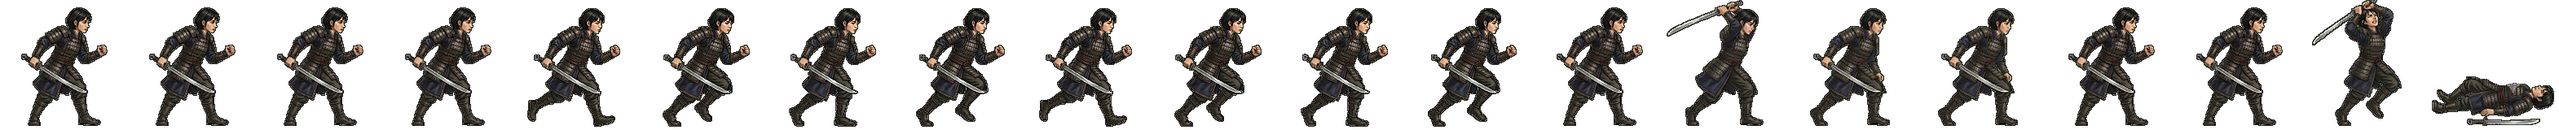
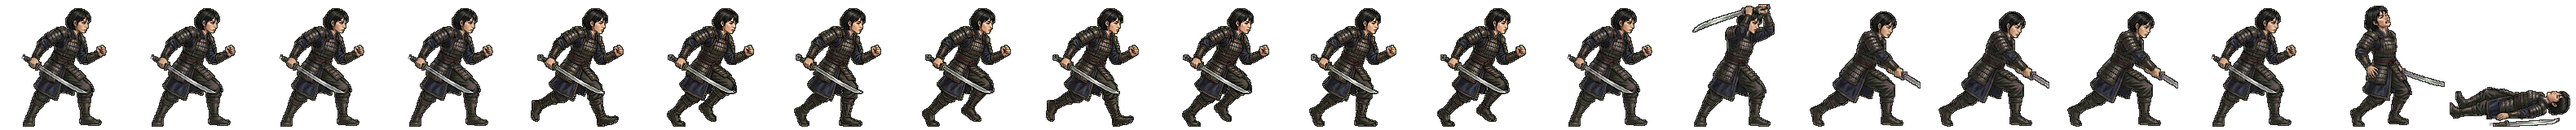
전투 띠 새로: ara 동작 띠 다시 — 형이 구움 (굽기 꾸러미 · 검수 1·3번) (형 11-08)
Claude-Session: https://claude.ai/code/session_01TRiuNAG8xSjdmjCFpc8Rd5

diff --git a/src/realm/data/art.ts b/src/realm/data/art.ts
@@ -493,7 +493,7 @@ export const GEN_ANIM: Readonly<Partial<Record<string, { ar: number; body: numbe
   malgalgi: { ar: 165 / 160, body: 0.906 }, // 11-08 초상대로 다시 (형: 「투구 쓰고 원본과 다르다」 · 제미나이 걷기 4×2 + 동작 4×2 → 20컷 · assets_src/realm/gemini/generals2) · 전투 옷은 더 드러나게 (형 11-08)
   haebi: { ar: 157 / 160, body: 0.900 }, // 11-08 초상대로 다시 (형: 「투구 쓰고 원본과 다르다」 · 제미나이 걷기 4×2 + 동작 4×2 → 20컷 · assets_src/realm/gemini/generals2) · 11-08 처음 · haebi 동작 띠 다시 — 형이 구움 (굽기 꾸러미 · 검수 1·3번)
   soebi: { ar: 156 / 160, body: 0.906 }, // 11-08 초상대로 다시 (형: 「투구 쓰고 원본과 다르다」 · 제미나이 걷기 4×2 + 동작 4×2 → 20컷 · assets_src/realm/gemini/generals2) · 쇠 덩이 묶음 대신 큰 쇠망치
-  ara: { ar: 157 / 160, body: 0.906 }, // 11-08 초상대로 다시 (형: 「투구 쓰고 원본과 다르다」 · 제미나이 걷기 4×2 + 동작 4×2 → 20컷 · assets_src/realm/gemini/generals2)
+  ara: { ar: 158 / 160, body: 0.906 }, // 11-08 초상대로 다시 (형: 「투구 쓰고 원본과 다르다」 · 제미나이 걷기 4×2 + 동작 4×2 → 20컷 · assets_src/realm/gemini/generals2) · 11-08 처음 · ara 동작 띠 다시 — 형이 구움 (굽기 꾸러미 · 검수 1·3번)
   heo: { ar: 145 / 160, body: 0.900 }, // 11-08 초상대로 다시 (형: 「투구 쓰고 원본과 다르다」 · 제미나이 걷기 4×2 + 동작 4×2 → 20컷 · assets_src/realm/gemini/generals2) · 갑옷 대신 보석 윗옷·트임 치마 (형: 전투 옷은 더 드러나게)
   gamsil: { ar: 157 / 160, body: 0.906 }, // 11-08 초상대로 다시 (형: 「투구 쓰고 원본과 다르다」 · 제미나이 걷기 4×2 + 동작 4×2 → 20컷 · assets_src/realm/gemini/generals2) · 어깨 내린 주황 겉옷·짧은 치마 (형: 전투 옷은 더 드러나게)
   irang: { ar: 164 / 160, body: 0.900 }, // 11-08 초상대로 다시 (형: 「투구 쓰고 원본과 다르다」 · 제미나이 걷기 4×2 + 동작 4×2 → 20컷 · assets_src/realm/gemini/generals2) · 11-08 처음 · 문신 팔·구슬 목걸이·가죽 조끼 · 청동 단검 찌르기

diff --git a/src/ui/realm/battle-strikes.ts b/src/ui/realm/battle-strikes.ts
@@ -138,7 +138,7 @@ const CONTACT: Readonly<Record<string, [number, number, number]>> = {
   axe: [15, .89, .47], horse: [16, .98, .23], boat: [16, .88, .57],
   marine: [15, .99, .40], militia: [14, .98, .33],
   'gen-g-spear': [15, .99, .32], 'gen-g-sword': [16, .99, .33], 'gen-w-spear': [14, .98, .56],
-  'gen-mount': [15, .98, .22], 'gen-ara': [14, 0.76, 0.94], 'gen-aryeong': [14, 0.99, 0.34],
+  'gen-mount': [15, .98, .22], 'gen-ara': [14, 0.91, 0.65], 'gen-aryeong': [14, 0.99, 0.34],
   'gen-daeso': [14, 0.95, 0.34], 'gen-eureum': [14, .95, .13], 'gen-gamsil': [14, 0.94, 0.76],
   'gen-haebi': [14, 0.87, 0.73], 'gen-heo': [14, 0.94, 0.46], 'gen-hyeokgeose': [14, 0.83, 0.94],
   'gen-hyeopbo': [14, .93, .21], 'gen-malgalgi': [14, 0.88, 0.28], 'gen-mari': [14, .98, .47],
